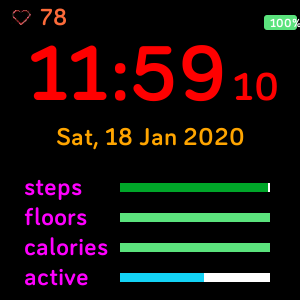
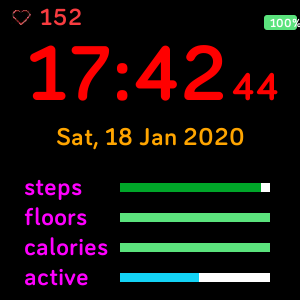
HR Zone based Colors
HR Zone based Colors

diff --git a/FluffyPureStats/app/index.js b/FluffyPureStats/app/index.js
@@ -6,6 +6,7 @@ import { goals } from "user-activity";
 import { battery } from "power";
 import { HeartRateSensor } from "heart-rate";
 import { display } from "display";
+import { user } from "user-profile";
 import * as util from "../common/utils";
 
 // Update the clock every seconds
@@ -108,6 +109,28 @@ function colourScheme(el, iPercentage)
   }
 }
 
+function hrColourScheme(el, hrValue)
+{
+  let hrz = user.heartRateZone(hrValue);
+  // console.log(`${hrz}`);
+  if (hrz == 'out-of-range' || hrz == 'below-custom')
+  {
+    el.style.fill = "fb-white";
+  }
+  else if (hrz == 'fat-burn' || hrz == 'custom')
+  {
+    el.style.fill = "fb-yellow";
+  }
+  else if (hrz == 'cardio' || hrz == 'above-custom')
+  {
+    el.style.fill = "fb-orange";
+  }
+  else if (hrz == 'peak' || hrz == 'above-custom')
+  {
+    el.style.fill = "fb-red";
+  }
+}
+
 function displayBattery()
 {
   let batterystats = (battery['chargeLevel'] || 0);
@@ -122,10 +145,11 @@ function displayHeartRate()
 {
   let hrstats = (hrm['heartRate'] || '--');
   // let hrstats = hrm.heartRate;
-  let hrpercent = Math.abs(100 - ((hrstats/150)*100));
+  // let hrpercent = Math.abs(100 - ((hrstats/150)*100));
   var el = document.getElementById('heartRate');
   // var elstat = document.getElementById('batteryStats');
-  colourScheme(el, hrpercent);
+  hrColourScheme(el, hrstats);
   el.text = `${hrstats}`;
   // console.log(`function got called`);
 }
+
